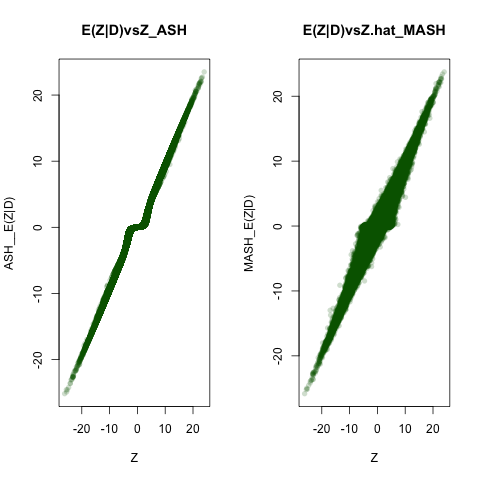
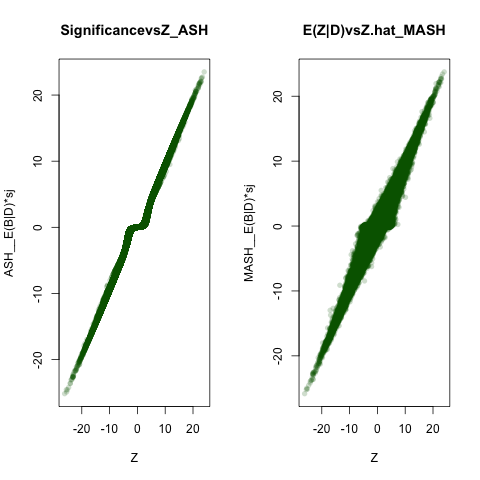
update
Former-commit-id: d4013dc26c1df0181da8bb299ac435e4ffac1a9f
Former-commit-id: 738578482bba5836d992ee419002bfec0cfeee90

Changed region(s): [[0.125, 0.0312, 0.4375, 0.0938], [0.5, 0.375, 0.5312, 0.5938], [0.0, 0.375, 0.0312, 0.5938]]

diff --git a/Paper/Results/Results.tex b/Paper/Results/Results.tex
@@ -2,7 +2,7 @@
 \section{Results}
 \subsection{Demonstrating Features of the Method}
 
-To get a sense of the accuracy of our novel approach to estimating multivariate effects, we simulated two types of data: shared, and tissue specific. In the first setting, in which we expect our method to be superior to both univariate methods and joint methods in which the configuration approach is utilized, we simulate 50,000 gene-snp pairs, with only 400 representing true signal. This represents roughly 500 genes with 100 snps in cis, $80\%$ of which contain one active QTL. Thus naturally, if the gene contains such a QTL, it is the same QTL among all tissues in which the tissue is active. This puts a dual burden on the ability of the method to accurately capture effect sizes and shapes: the small number of true associations present in these simulations tests whether the method accurately encourages small observed effects toward zero while preserving the true signal when it exists. Furthermore, the  multivariate nature of these simulated `true' effects tests the ability of the method to accurately infer patterns of sharing from the dataset. These true effects are thus simulated from the `learned' covariance matrices representing $U_{k}$ 2-9, and thus aim to emulate the patterns of sharing present in real biological data. We compare with univariate `shrinkage' method Ash (Stephens et al, unpublished) as well as a modified version of eqtlBMA-lite (Flutre et al, 2013), here deemed 'mash-lite' which uses the singleton and fully consistent (i.e., active in only one tissue, or active with the same effect size in all tissues) configurations to estimate these effects jointly (see Methods \ref{ssec:num1} item 6 for details). We call this the `sharing' (S) scenario. 
+To get a sense of the accuracy of our novel approach to estimating multivariate effects, we simulated two types of data: shared, and tissue specific. In the first setting, in which we expect our method to be superior to both univariate methods and joint methods in which the configuration approach is utilized, we simulate 50,000 gene-snp pairs, with only 400 representing true signal. This represents roughly 500 genes with 100 snps in cis, $80\%$ of which contain one active QTL. Thus naturally, if the gene contains such a QTL, it is the same QTL among all tissues in which the tissue is active. This puts a dual burden on the ability of the method to accurately capture effect sizes and shapes: the small number of true associations present in these simulations tests whether the method accurately encourages small observed effects toward zero while preserving the true signal when it exists. Furthermore, the  multivariate nature of these simulated `true' effects tests the ability of the method to accurately infer patterns of sharing from the dataset. These true effects are thus simulated from the `learned' covariance matrices representing $U_{k}$ 2-9, and thus aim to emulate the patterns of sharing present in real biological data. We compare with univariate `shrinkage' method Ash (Stephens et al, unpublished) as well as a modified version of eqtlBMA-lite (Flutre et al, 2013), here deemed 'mash-lite' which uses the singleton and fully consistent (i.e., active in only one tissue, or active with the same effect size in all tissues) configurations to estimate these effects jointly (see Methods \ref{sssec:num1} item 6 for details). We call this the `sharing' (S) scenario. 
 
 One might expect that our method would prove superior only in the setting in which true effects are shared among all tissues, and thus fail in the setting of tissue specificity. Thus, building on the situation above, we add a simulation in which $35\%$ of the true effects are active in only one tissue, according to 5 different patterns of tissue specificity. We call this the `tissue-specific' (TS) scenario. 
 
@@ -88,13 +88,13 @@ To demonstrate the utility of shrinking effect size estimates jointly, we consid
 %\hfill
 \includegraphics[width=5cm]{Figures/scatterplot_truthbspec.png}&
 \includegraphics[width=5cm]{Figures/scatterplot_TRUTHashbspec.png}
-\caption{\textbf{Understanding Power and Accuracy Gains} In the top left panel, we contrast the power advantage of a joint shrinkage approach with that of a univariate thresholding approach, in which all observed statistics of a given level of significance shrunk equivalently, independent of the information contained in other tissues. Using the information contained in other tissues allows us to augment (or shrink less harshly) small effects in one tissue in the presence of evidence of strong effects in other tissues, while univariate methods ignore alternative tissues. Thus the method is dually `adaptive' by considering the abundance of both effect sizes (here, an abundance of small effects) and shapes in the overall data-set. $\textbf{Bottom left}$ the correlation with the true (simulated) effect sizes values is greater using MASH then univariate methods, and truly null values are shrunk more harshly, while retaining the ability to capture tissue-specific eQTL.}
+\caption{\textbf{Understanding Power and Accuracy Gains}: In the top left panel, we contrast the power advantage of a joint shrinkage approach with that of a univariate thresholding approach, in which all observed statistics of a given level of significance shrunk equivalently, independent of the information contained in other tissues. Using the information contained in other tissues allows us to augment (or shrink less harshly) small effects in one tissue in the presence of evidence of strong effects in other tissues, while univariate methods ignore alternative tissues. Thus the method is dually `adaptive' by considering the abundance of both effect sizes (here, an abundance of small effects) and shapes in the overall data-set. $\textbf{Bottom}$: the correlation with the true (simulated) effect sizes values is greater using MASH (left) then univariate methods (right), and truly null values are shrunk more harshly, while retaining the ability to capture tissue-specific eQTL.}
  \label{fig:simulationscatter}
 \end{figure}\newline
 
 In both MASH and univariate methods, $\hat{b}_{jr}$ of a given size will be shrunk more harshly depending on their errors (Ash Paper, Stephens $\emph{et al}$). 
 %However, under the `EZ' model used here, the standard errors are uniformly one, and thus effects are shrunk according to the ratio between their observed effect $\hat{b}_{jr}$  and their standard error $\hat{s}_{jr}$. 
-However, plotting the estimated significance (i.e., $\frac{E(B|Data)}{\hat{s}_{j}}$) against the observed Z score (i.e., $\hat{Z}_{jr})$ (Figure \ref{fig:simulationscatter}) allows us to understand the behavior of multivariate versus univariate methods once the standard error has been considered. 
+However, plotting the estimated significance (i.e., $\frac{E(B|Data)}{\hat{s}_{j}}$) against the observed Z score (i.e., $\hat{Z}_{jr})$ (Figure \ref{fig:simulationscatter}) allows us to understand the behavior of multivariate versus univariate methods once the standard error has been considered. In a univariate method, all effects with the same observed effect size $\hat{b}_{jr}$ and standard error $\hat{s}_{jr}$ will be shrunk equivalently, while a joint method allows us to consider effects in other tissues in augmenting the posterior estimated effect size.
 %However under the simulation framework here, where the standard errors are roughly uniform across tissues, plotting estimated efect sizes (i.e., $E(b_{jr}|Data$)) against the observed `raw' input values (i.e., $\hat{b}_{jr})$ (Figure \ref{fig:simulationscatter}) allows us to understand the behavior of multivariate versus univariate methods once the standard error has been considered. 
 In this simulated data-set, where there is an abundance of small effects, both univariate and multivariate methods tend to shrink small observed values of $\hat{\bm{b}}$ towards prior mean at $\bm{0}$ as their likelihoods will be maximized by component with small $\omega$. However, while univariate methods shrink all observed Z statistics uniformly, thus preserving the rank-order of significance among $\hat{\bm{b_{j}}}$, MASH does not. Critically, this is due to the power of joint analysis to consider the effects across tissues in inferring the final vector of effect sizes.Thus the method is dually `adaptive' by considering the abundance of both effect sizes and shapes in the overall data-set.  Here, acknowledging consistency, small effects in one tissue will be augmented in the presence of larger effects in other tissues, resulting in dramatic power increases (Figure \ref{fig:powervaccuracy}).
 
@@ -114,9 +114,10 @@ But perhaps more importantly, there is a striking increase in power (Table \ref{
 
 %\textbf{Figure: Real Data Scatterplot}
 \begin{figure}[htbp]
-\includegraphics[width=5cm]{Figures/comparebeta.png}&
-\includegraphics[width=5cm]{Figures/comparez.png}\\
-\caption{\textbf{Understanding Shrinkage with Real Data} While both univariate and joint methods shrink estimates $\hat{b_{jr}}$ with large standard error more harshly ($\textbf{Left two panels)}$, comparing the posterior estimates for a given observed $Z$ statistic ($\textbf{right two panels)}$ allows us to visualize the power of joint analysis. Since all observed $Z$ statistics have a standard error of one, Z statistics of the same size are shrunk differently depending on  the effect across tissues using our joint approach MASH $\textbf{far right}$, when compared to univariate methods $\textbf{second from right}$, resulting in tremendous power gains (Table $\ref{table:power}$).}
+%\includegraphics[width=5cm]{Figures/comparebeta.png}&
+\includegraphics[width=10cm]{Figures/comparez.png}\\
+%\caption{\textbf{Understanding Shrinkage with Real Data} While both univariate and joint methods shrink estimates $\hat{b_{jr}}$  of a given size with large standard error more harshly ($\textbf{Left two panels)}$, comparing the posterior estimates for a given observed $Z$ statistic ($\textbf{right two panels)}$ allows us to visualize the power of joint analysis. Since all observed $Z$ statistics have a standard error of one, 
+Z statistics of the same size are shrunk differently depending on the effect across tissues using our joint approach MASH $\textbf{far right}$, when compared to univariate methods $\textbf{second from right}$, which tend to shrink all observed effects of a given size and standard error (i.e., equivalent Z statistics) uniformly, resulting in tremendous power gains (Table $\ref{table:power}$) by the increased significance induced.}
 \end{figure}\newline
 
 \begin{table}[ht]
@@ -157,11 +158,11 @@ Significant $\bf{b}_{jr}$ $\leq$ 0.05%&202087
 Indeed, from the prior weight assigned to the `learned matrices' above coupled with the simulation results in the previous sections, we can see that MASH is able to accurately parse shared configurations, thus resolving the relationship among tissues in which the QTL is active Figure \ref{fig:pihat}, \ref{fig:pcplot} and Supplementary Figure \ref{fig:allheat}. 
 %To further contrast our approach with existing joint methods on this data-set, consider a two-tissue example, in which a configuration type approach recognizes only patterns constrained to lie along the x and y axis or along the $x-y$ line (Figure \ref{fig:Patterns}). MASH allows for patterns which show consistently larger effects in one tissue over another, with varying amounts of correlation among tissues. In these examples from real data (Figure \ref{fig:twoplot}), we can see that while eQTL of the green, blue and yellow class appear consistently active in both Brain and Muscle , the blue and yellow effects have consistently larger effects in Skeletal Muscle than brain, while SNPs of the green class show the reverse. Similarly, eQTL of the yellow class show only loose correlation among this chosen pair of tissues, while eQTL of the blue class show strong correlation between this pair. Furthermore, we can see that eQTL of the pink class tend to show tissue-specificity in Whole Blood relative to testis, while eQTL of the black class show tissue specificity in testis relative to whole blood. Lastly, within QTL of the yellow class, there exists only loose correlation between testis and lymphocytes, but strong correlation among colonic tissues, indicating the value of capturing distinct patterns of correlation among different pairs of tissues among SNPs of a given class, or between classes. 
 %%\newline
-To further contrast our approach with existing joint methods on this data-set, we compare our results to a configuration approach which recognizes only patterns constrained to lie along the x and y axis or along the $x-y$ line (Figure \ref{fig:Patterns}). MASH allows for patterns which show consistently larger effects in one tissue over another, with varying amounts of correlation among tissues. In these examples from real data, we compare the first principal component of each of the covariance matrices which reflect patterns `learned' from the data (see Methods \ref:sssec:num1 for details). Intuitively, this provides a cursory approximation of the relationship in effect sizes among tissues (Figure \ref{fig:pcplot}). 
+To further contrast our approach with existing joint methods on this data-set, we compare our results to a configuration approach which recognizes only patterns constrained to lie along the x and y axis or along the $x-y$ line (Figure \ref{fig:Patterns}). MASH allows for patterns which show consistently larger effects in one tissue over another, with varying amounts of correlation among tissues. In these examples from real data, we compare the first principal component of each of the covariance matrices which reflect patterns `learned' from the data (see Methods \ref{sssec:num1} for details). Intuitively, this provides a cursory approximation of the relationship in effect sizes among tissues (Figure \ref{fig:pcplot}). 
 
 \begin{figure}[htbp]
 \includegraphics[width=10cm]{Figures/PlotsForPaper_files/figure-html/unnamed-chunk-28-1.png}
-\caption{\textbf{Relationships Among Tissues Captured} Here, we demonstrate the first principal direction of each pattern of effects across tissues, by simply taking the first eigenvector of each of these covariance matrices. Intuitively, these provide a rank 1 summary of the relationship in effect scales and directions among tissues captured by each pattern.}
+\caption{\textbf{Relationships Among Tissues Captured} Here, we demonstrate the first principal direction of each pattern of effects across tissues, by simply taking the first eigenvector of each of these covariance matrices. Intuitively, these provide a rank 1 summary of the relationship in effect scales and directions among tissues captured by each pattern. They can be contrasted with the `consistent configuration' which assumes the same effect size for all tissues in which the tissue is active. See text for details.}
 \label{fig:pcplot}
 \end{figure}\newline
 %\textbf{Figure: Colored Scatterplots of 2 tissues, contrasting effects between tissues, color coded by responsibility}
@@ -212,14 +213,17 @@ To further contrast our approach with existing joint methods on this data-set, w
 %\label{fig:twoplot}
 %\end{figure}
 
-Each of the U_{k} thus reflects diverse relationships in effect sizes among tissues: for instance, comparing the blaock and red pattern, we see that gene-snp pairs with high posterior probability of arising from the black class demonstrate consistenct smaller effects in brain than other tissues, while gene-snp pairs of the red class demonstrate strong effects in brain as compared to alternative tissues, for example. Similarly, we see that the patterns learned in U_{k} 5 and 8 (blue and yellow) demonstrate a degree of `quantitative' specificity: that is, consistently stronger effects in one tissue (whole blood and testes, respectively) without restricting the effect sizes to zero in alternative tissues. Because these patterns and their relative abundance are `learned' from the data and allow for a superior model fit to methods which restrict effects as `active' or `qualitatively specific', we can use these to understand gross patterns present in the data as well as gene-snp specific effects.
+Each of the $U_{k}$ thus reflects diverse relationships in effect sizes among tissues: for instance, comparing the black and red pattern, we see that gene-snp pairs with high posterior probability of arising from the black class ($U_{k}=2$) demonstrate consistently smaller and shared effects in brain than other tissues, while gene-snp pairs of the red class ($U_{k}=3$) demonstrate strong effects in brain as compared to alternative tissues, for example. Indeed, matrix $U_{k}$ = 3 captures gene-snp pairs with large, correlated effects in brain, and is the most prevalent pattern of sharing in the larger data set, as reflected by it's prior weight summed across effect size (see Figure \ref{fig:pihat}). Matrix $U_{k}$ = 2 captures SNPs with small effects in brain and larger effects in thyroid and transformed cell-types (e.g., fibroblasts, lymphocytes).
+Similarly, we see that the patterns learned in $U_{k}$ =4, 5 and 8 (blue and yellow) demonstrate a degree of `quantitative' specificity: that is, consistently stronger effects in one tissue (whole blood, whole blood and testes, respectively) without restricting the effect sizes to zero in alternative tissues. Because these patterns and their relative abundance are `learned' from the data and allow for a superior model fit to methods which restrict effects as `active' or `qualitatively specific', we can use these to understand gross patterns present in the data as well as gene-snp specific effects. Examining the barplot (Figure \ref{fig:pihat}) of the relative importance of each of these patterns as learned from the data through empirical Bayes Methods (See methods \ref{sssec:ebweights}) and comparing it with a method which simply calls effects `active or inactive (mash.lite) we see that such patterns are able to effectively `dissect' the activity quantified in a fully `consistent' configuration.
 
+%
+%For instance, learned matrix $U_{k}$ = 3 captures gene-snp pairs with large, correlated effects in brain, and is the most prevalent pattern of sharing in the larger data set, as reflected by it's prior weight summed across effect size (see Figure \ref{fig:pihat}). Matrix $U_{k}$ = 2 captures SNPs with small effects in brain and larger effects in thyroid and transformed cell-types (e.g., fibroblasts, lymphocytes). Several of the lower rank matrices whose patterns receive high prior weighting (e.g., $U_{k}$ = 4,5,8 and 9) show somewhat tissue specific (i.e., high prior variance in only one tissue-type) effects in testes and whole blood, consistent with our conclusions that whole blood and testes indeed demonstrate an abundance of tissue-specific gene-snp pairs. 
 
-For instance, learned matrix $U_{k}$ = 3 captures gene-snp pairs with large, correlated effects in brain, and is the most prevalent pattern of sharing in the larger data set, as reflected by it's prior weight summed across effect size (see Figure \ref{fig:pihat}). Matrix $U_{k}$ = 2 captures SNPs with small effects in brain and larger effects in thyroid and transformed cell-types (e.g., fibroblasts, lymphocytes). Several of the lower rank matrices whose patterns receive high prior weighting (e.g., $U_{k}$ = 4,5,8 and 9) show somewhat tissue specific (i.e., high prior variance in only one tissue-type) effects in testes and whole blood, consistent with our conclusions that whole blood and testes indeed demonstrate an abundance of tissue-specific gene-snp pairs. Here we examine several example gene-snp pairs with a high posterior probability of arising from the covariance patterns captured by our model. We deem this posterior probability of arising from a particular pattern as a high `loading' or `responsibility.' 
 
 
 \subsubsection{Examples of Select Patterns}
 
+Here we examine several example gene-snp pairs with a high posterior probability of arising from the covariance patterns captured by our model. We deem this posterior probability of arising from a particular pattern as a high `loading' or `responsibility.' We consider the posterior effect, as normalized by it's standard error, to see how the significance across tissue combines information contained in the prior pattern which the gene-snp pair most resembles, and the data originally observed.
 %\newline
 %\textbf{Figure: High loading on UK3: Captures correlation in sign, quantitative heterogeneity in magnitude along diagonal emphasizes the utility of continuous approach}
 %\newline
@@ -228,7 +232,8 @@ For instance, learned matrix $U_{k}$ = 3 captures gene-snp pairs with large, cor
 \includegraphics[width=8cm]{Figures/PlotsForPaper_files/figure-html/unnamed-chunk-12-2.png}\\
 \includegraphics[width=6cm]{Figures/PlotsForPaper_files/figure-html/unnamed-chunk-13-1.png}&
 \includegraphics[width=8cm]{Figures/PlotsForPaper_files/figure-html/unnamed-chunk-13-2.png}\\
-\includegraphics[width=10cm]{Figures/PlotsForPaper_files/figure-html/unnamed-chunk-14-1.png}\\
+\includegraphics[width=6cm]{Figures/PlotsForPaper_files/figure-html/unnamed-chunk-14-1.png}&
+\includegraphics[width=8cm]{Figures/PlotsForPaper_files/figure-html/unnamed-chunk-14-2.png}\\
 \caption{\textbf{High loading on $U_{k}$=3, $U_{k}$=5, and mash-lite}:  While all matrices appear to capture overwhelming correlation in sign, the varying degrees of quantitative heterogeneity in magnitude along the diagonal emphasize the utility of continuous approach. The correlation in sign means that erratic `off-directions' in observed statistics are often flipped ($\textbf{top}$). $\textbf{Center}$: this gene snp-pair demonstrates high loading on the learned (as opposed to forced) pattern of activity $U_{k}=5$ which captures quantitatively specific activity in whole blood. Effects are significant in many tissues, but quantitatively specific to whole blood. $\textbf{Bottom}$: we also find evidence of qualitative heterogeneity, reflected in the example demonstrating high loading on mash-lite configuration matrix, and accordingly only the activity in whole blood is deemed significant.}
 \label{fig:uk3}
 \end{figure}

diff --git a/Paper/Methods/Methods.tex b/Paper/Methods/Methods.tex
@@ -66,30 +66,6 @@ Let us concatenate the list of all KxL combinations of prior covariance matrices
 
 Now each $U_{p}$ imparts information about both $\emph{scale}$ and $\emph{direction}$
 
-\subsection{Mixture Weights: Estimate $\hat{\bm{\pi}}$}
-We wish to choose the model which best maximizes the probability of observing the data set. First, we must estimate the prior mixture weights $\pi$ by maximizing the likelihood 
-
-\begin{equation}
-L(\pi;\hat{\bm{b}}, \bm{s}) := p(\hat{\bm{b}}, \bm{s} | \pi) 
-\label{eq:cdll}
-\end{equation}
-
-We express the marginal (observed) data likelihood for a finite mixture (Laird \emph{et al}, 1977):
-%Here, the total likelihood of the test data set over $K$ components: 
-
-\begin{equation}
-L(\bm\pi;{\hat{\bm{b}}},\bm{s}) = \prod_{j=1}^J \sum_{p}^{P} \pi_{p} P(\hat{\bm{b_{j}}}, \bm{s} | z_{j}=p)
-\label{eq:pihat}
-\end{equation}
-
-Here, in order to obtain mixture weights $\bm{\pi}$ which reflect the abundance of each pattern of sharing in the overall data set, we use a random set of gene-snp pairs (i.e., not restricting our analysis to the pairs with the strongest Z statistics used in the section above) and obtain the maximum likelihood estimates of the mixture weights, $\hat{\bm{\pi}}$, which maximize the complete data likelihood $\ref{eq:cdll}$ (Laird 1977; Barut 2005).
-
-\begin{itemize}
-\item  To estimate the hierarchical prior weights $\hat{\bm{\pi}}$ we compute the likelihood at each of these randomly chosen gene-snp pairs $j$ by evaluating the probability of observing $\bm{\hat{b}_{j}}$ given that we know the true $\bm{b_{j}}$ arises from component $\bm{p}$ (see \ref{eqn:new_lik}).
-\item  Use the Expectation Maximization (EM) algorithm to estimate the optimal combination of weights using the  $\textbf{JxP}$ matrix of likelihoods computed according to ($\ref{eqn:new_lik}$).
-\end{itemize}
-
-%We then use these weights to estimate the test set log-likelihood.
 
 \subsection{Likelihood}
 
@@ -103,7 +79,38 @@ If we now view $\hat{\bm{b}}_{j}$ and $\hat{V}_{j}$ as \emph{observed data}, we 
     \label{eqn:new_lik}
 \end{equation}
 
-In brief, though we report the analysis using $\hat{\bm{b}}_{j}$ and its standard error, inference can be similarly performed on the vector of observed Z statistics $\bm{Z}_{j}$ with the matrix of squared Standard Error $\hat{V}_{j}$ thus defined as the RxR Identity Matrix.
+In brief, though we report the analysis using $\hat{\bm{b}}_{j}$ and its standard error, inference can be similarly performed using the vector of observed Z statistics ${Z}_{j}$ with the matrix of squared Standard Error $\hat{V}_{j}$ thus defined as the RxR Identity Matrix. This is deemed the `EZ' model and assumes exchangeable standardized effects, e.g., that effects tend to scale with their standard error:
+
+ \begin{equation}
+  \frac{\bm{b_{j}}}{\bm{\hat{s_{j}}}} | \bm{\pi},\bf{U}, \bm{\omega} \sim \sum_{k,l} \pi_{k,l} \;{\it N}_R(x; \bm{0}, \omega_l U_{k})
+\end{equation}
+
+Likelihood based methods can then used to determine the superior model fit (see Supplement (Testing/Training) for details).
+
+\subsection{Mixture Weights: Estimate $\hat{\bm{\pi}}$}\label{sssec:ebweights}
+We wish to choose the model which best maximizes the probability of observing the data set. First, we must estimate the prior mixture weights $\pi$ by maximizing the likelihood 
+
+\begin{equation}
+L(\pi;\hat{\bm{b}}, \bm{s}) := p(\hat{\bm{b}}, \bm{s} | \pi) 
+\label{eq:cdll}
+\end{equation}
+
+We express the marginal (observed) data likelihood for a finite mixture (Laird \emph{et al}, 1977):
+%Here, the total likelihood of the test data set over $K$ components: 
+
+\begin{equation}
+L(\bm\pi;{\hat{\bm{b}}},\bm{s}) = \prod_{j=1}^J \sum_{p}^{P} \pi_{p} P(\hat{\bm{b_{j}}} | \hat{\bm{s_{j}}}, z_{j}=p)
+\label{eq:pihat}
+\end{equation}
+
+Here, in order to obtain mixture weights $\bm{\pi}$ which reflect the abundance of each pattern of sharing in the overall data set, we use a random set of gene-snp pairs (i.e., not restricting our analysis to the pairs with the strongest Z statistics used in the section above) and obtain the maximum likelihood estimates of the mixture weights, $\hat{\bm{\pi}}$, which maximize the complete data likelihood $\ref{eq:cdll}$ (Laird 1977; Barut 2005).
+
+\begin{itemize}
+\item  To estimate the hierarchical prior weights $\hat{\bm{\pi}}$ we compute the likelihood at each of these randomly chosen gene-snp pairs $j$ by evaluating the probability of observing $\bm{\hat{b}_{j}}$ given that we know the true $\bm{b_{j}}$ arises from component $\textbf{p}$ (see \ref{eqn:new_lik}).
+\item  Use the Expectation Maximization (EM) algorithm to estimate the optimal combination of weights using the  $\textbf{JxP}$ matrix of likelihoods computed according to ($\ref{eqn:new_lik}$).
+\end{itemize}
+
+%We then use these weights to estimate the test set log-likelihood.
 
 \subsection{Posterior Quantities}\label{sssec:posteriors}
 
@@ -124,7 +131,6 @@ where:
 \end{itemize}
 
 
-. 
 Furthermore, a mixture-multivariate normal prior and a normal likelihood yields a mixture multivariate posterior, where the final posterior distribution is simply a weighted combination of multivariate normal distributions, where for each gene-snp pair $\textbf{j}$ is now characterized by it's posterior mean $\tilde{\bm{\mu}}_{jp}$ and covariance  $\tilde{U}_{jp} = (U_{p}^{-1} + \hat{V}_{j}^{-1})^{-1}$.
 
 \begin{equation}
